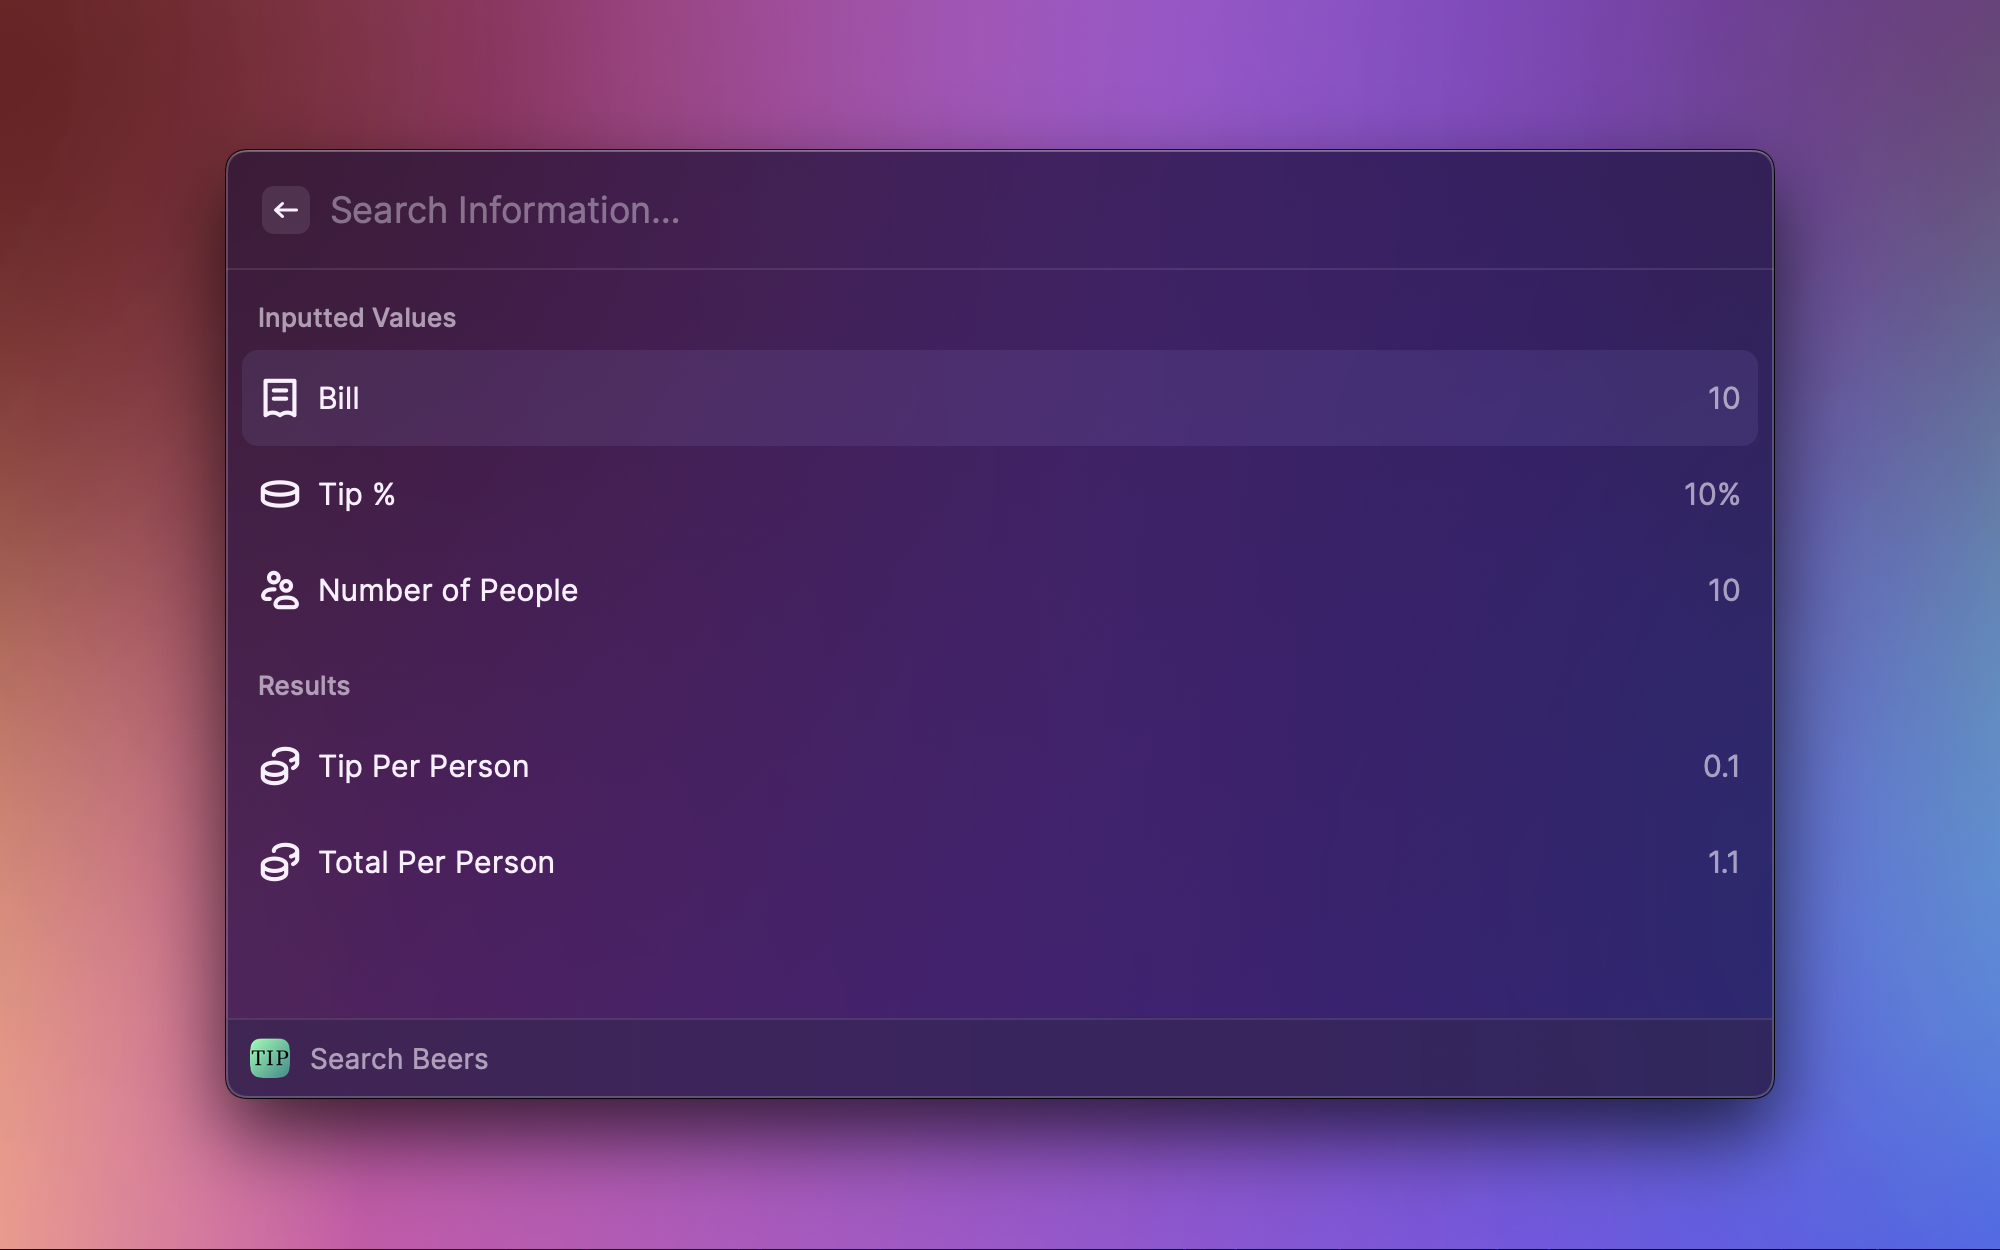
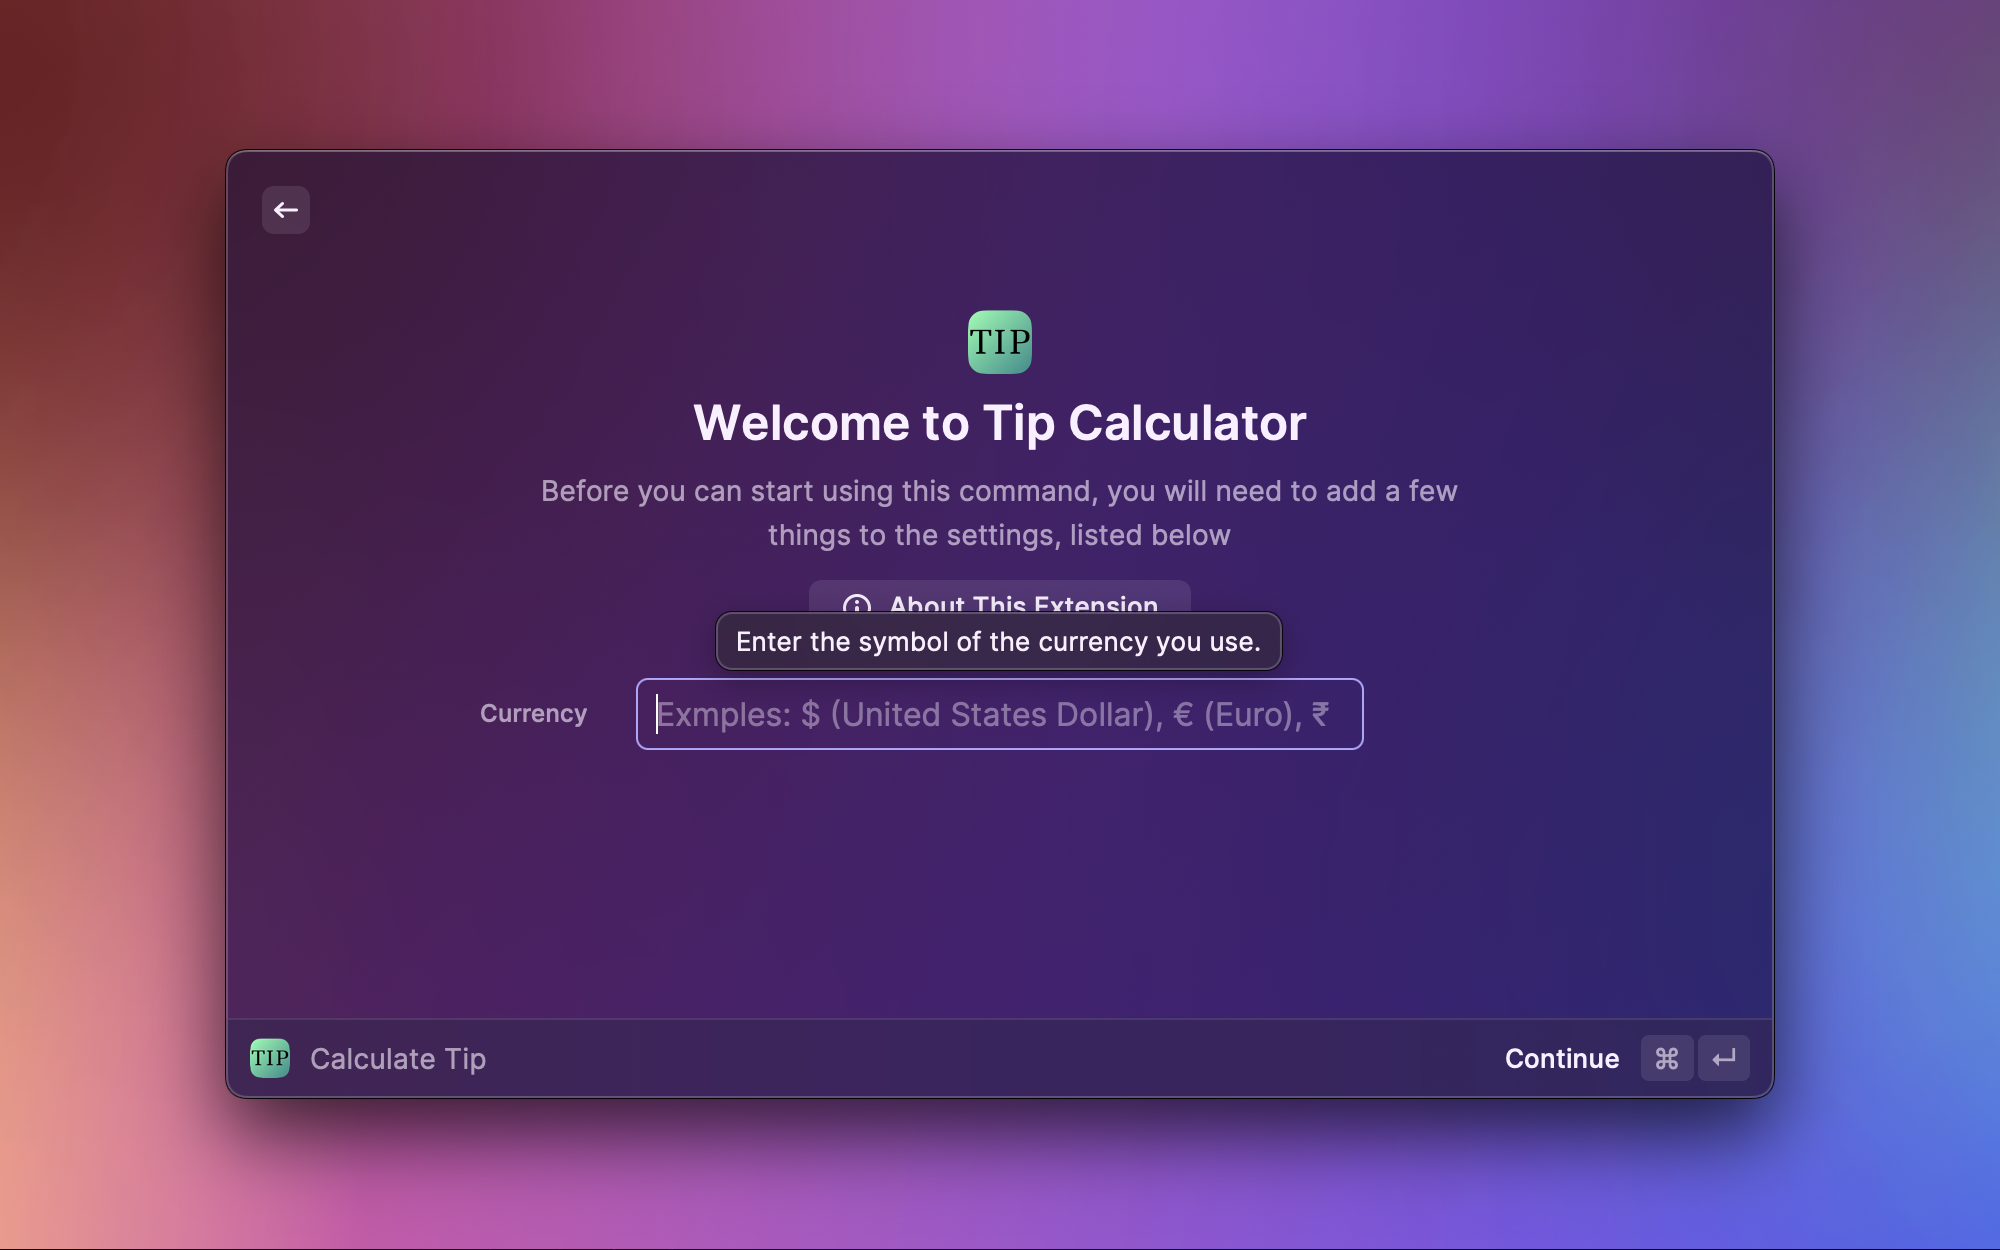
added a currency customization + other small fixes

diff --git a/src/calculate-tip.tsx b/src/calculate-tip.tsx
@@ -1,28 +1,34 @@
-import { Detail, LaunchProps, showToast, Toast, List, popToRoot, Icon, Color } from "@raycast/api";
+import { Detail, LaunchProps, showToast, Toast, List, popToRoot, Icon, Color, getPreferenceValues } from "@raycast/api";
 
 export default function Command(props: LaunchProps) {
   const { bill, tip, people } = props.arguments;
 
+  const { currency } = getPreferenceValues();
   if (!Number.isNaN(bill) && bill >= 0 && !Number.isNaN(tip) && tip >= 0 && !Number.isNaN(people) && people > 0) {
+    const billAmount = parseFloat(bill);
+    const tipPercentage = parseFloat(tip);
+    const peopleCount = parseFloat(people);
+
+    const tipPerPerson = ((billAmount * tipPercentage) / 100 / peopleCount).toFixed(2);
+    const totalPerPerson = ((billAmount * tipPercentage) / 100 / peopleCount + billAmount / peopleCount).toFixed(2);
+
     return (
       <List navigationTitle="Calculate Tip" searchBarPlaceholder="Search Information...">
         <List.Section title="Inputted Values">
-          <List.Item title={`Bill`} icon={Icon.Receipt} accessories={[{ text: `${bill}` }]} />
-          <List.Item title={`Tip %`} icon={Icon.Coin} accessories={[{ text: `${tip}%` }]} />
-          <List.Item title={`Number of People`} icon={Icon.TwoPeople} accessories={[{ text: `${people}` }]} />
+          <List.Item
+            title="Bill (Total)"
+            icon={Icon.Receipt}
+            accessories={[{ text: `${currency}${billAmount.toFixed(2)}` }]}
+          />
+          <List.Item title="Tip %" icon={Icon.Coin} accessories={[{ text: `${tip}%` }]} />
+          <List.Item title="Number of People" icon={Icon.TwoPeople} accessories={[{ text: `${people} people` }]} />
         </List.Section>
         <List.Section title="Results">
+          <List.Item title="Tip Per Person" icon={Icon.Coins} accessories={[{ text: `${currency}${tipPerPerson}` }]} />
           <List.Item
-            title={`Tip Per Person`}
+            title="Total Per Person"
             icon={Icon.Coins}
-            accessories={[{ text: `${(Number(bill) * Number(tip)) / 100 / Number(people)}` }]}
-          />
-          <List.Item
-            title={`Total Per Person`}
-            icon={Icon.Coins}
-            accessories={[
-              { text: `${(Number(bill) * Number(tip)) / 100 / Number(people) + Number(bill) / Number(people)}` },
-            ]}
+            accessories={[{ text: `${currency}${totalPerPerson}` }]}
           />
         </List.Section>
       </List>
